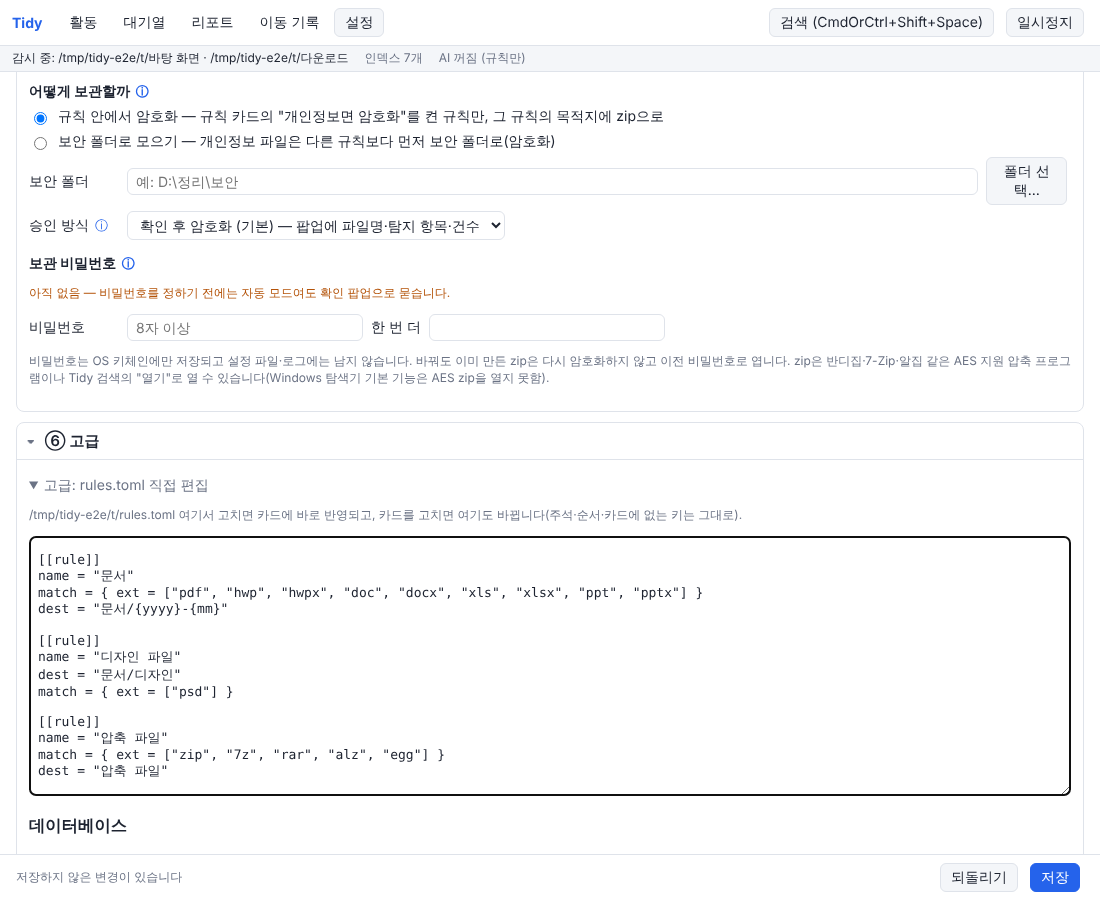
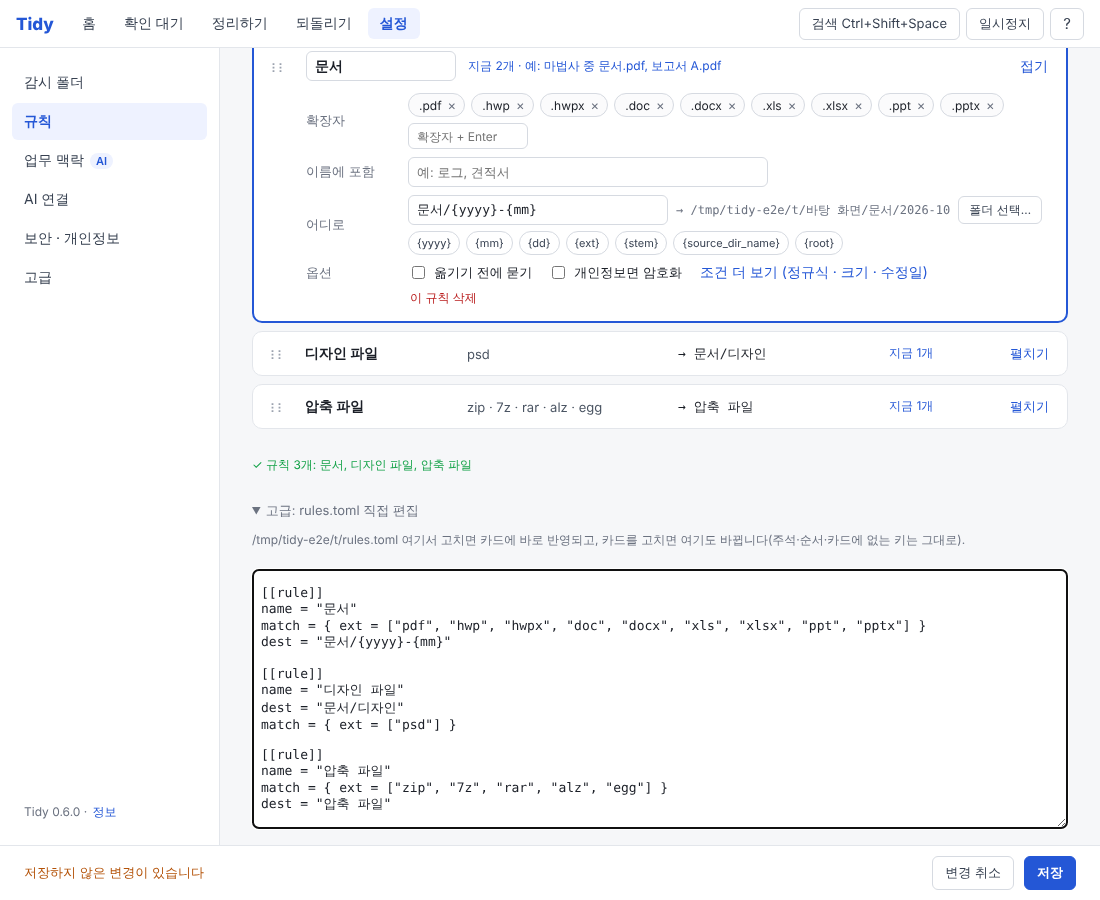
docs(m13): 설명서·스크린샷, CLAUDE.md 진행 상태, 버전 0.6.0
Claude-Session: https://claude.ai/code/session_01FNUYy9HBR6UMEwo8XnC1N1

diff --git a/CLAUDE.md b/CLAUDE.md
@@ -68,7 +68,7 @@ cargo run -p tidy-cli -- context list / add <이름> [--alias A,B | --issue | --
 cargo run -p tidy-cli -- curate scan [폴더] [--dry-run]  → curate apply <plan-id> [--only 1,3]   # 업무 맥락 정리(AI, 승인 전 무이동). 하위 폴더는 통째로 한 항목(M12)
 cd apps/desktop && npm ci && npm run tauri dev   # 클라우드: npm run build + (src-tauri) cargo clippy 까지만
 cd apps/desktop && npx tauri build [--bundles deb,appimage]   # 설치 패키지 (docs/packaging.md), 태그 v*는 release.yml
-S=/tmp/tidy-e2e bash apps/desktop/e2e/run-headless.sh m12    # 헤드리스 GUI e2e (m3~m12, 가짜 OpenAI 호환 서버 e2e/fake-embed.mjs, 느린 가짜 LLM e2e/fake-llm.mjs)
+S=/tmp/tidy-e2e bash apps/desktop/e2e/run-headless.sh m13    # 헤드리스 GUI e2e (m3~m13, 공통 도우미 e2e/lib.mjs, 가짜 OpenAI 호환 서버 e2e/fake-embed.mjs, 느린 가짜 LLM e2e/fake-llm.mjs)
 node apps/desktop/e2e/fake-llm.mjs 18095   # 느린·긴 가짜 Anthropic/OpenAI 호환 (파일당 1초, FAKE_MAX_TOKENS로 max_tokens 잘림 재현)
 ```
 
@@ -87,6 +87,7 @@ node apps/desktop/e2e/fake-llm.mjs 18095   # 느린·긴 가짜 Anthropic/OpenAI
 - [x] M11 UI 단순화 + 도움말/정보 + 정리 현황 (2026-10-23, 0.4.0) — 탭 홈/확인 대기/정리하기/되돌리기/설정, 상태바 요약+감시 현황 패널, 정리 현황 카드(미정리 수 백그라운드·캐시·20,000 상한)→지금 정리, 정리 위치 경고(두 번 확인), 절대 경로 규칙 경고+상대 경로로 바꾸기, 도움말 메뉴·정보 창·업데이트 확인(하루 한 번, check_updates)·로그 파일, release.yml 수동 실행=공개 릴리스. 트레이 정보 메뉴·실제 릴리스·실제 브라우저 열기는 로컬에서
 - [x] M12 폴더 단위 업무 맥락 정리 + 경로 맥락 + 고객사별 찾기 (2026-10-23, 0.5.0) — 하위 폴더 = 한 항목(FolderUnit 요약·캐시 키, `{folder}`, Mover::move_dir 한 배치·빈 폴더 정리·undo), AI에 상대 경로(맨 위 폴더 = 고객사 단서), 감시 중 맥락 정리는 최상위 파일만·폴더는 미리보기 승인만, folder_settle_secs, 파일별로 나누기·날짜 수정, 홈 "새 폴더 N개"·고객사별 보기, 검색 고객사 필터, 팝업 "대기열에 두기". 실제 AI의 폴더 판단 품질·실제 NAS 폴더 이동·창 확인은 로컬에서
 
+- [x] M13 화면 개편 (2026-10-26, 0.6.0) — 감시 폴더 별칭(`[[watch]] alias`)·PathText(가운데 줄임·전체 경로 title·클릭 열기), 홈 폴더 카드 4열+오늘 한 일(move_log `today_moves`)+고객사별, 확인 대기 5열 표↔900px 미만 카드·⋯ 메뉴 5개(팝업 같은 카드), 설정 왼쪽 메뉴 6쪽 `#/main/settings/<key>`(좁으면 가로 탭)·공통 정리 위치·폴더 편집 패널·규칙 한 줄 아코디언, 최소 창 960×640, 색 토큰, e2e `lib.mjs`+m13. 실제 창 크기·DPI·한글 글꼴·트레이·탐색기 열기는 로컬에서
 - [x] 0.2.x 핫픽스 (2026-10-22~23) — 규칙 카드 정렬(#12), AI 응답 잘림 분할 재시도(#13), HTTP 타임아웃 상한(#14), 감시 폴더 제외 폴더(SPEC §14.5)
 
 ## 열린 결정
